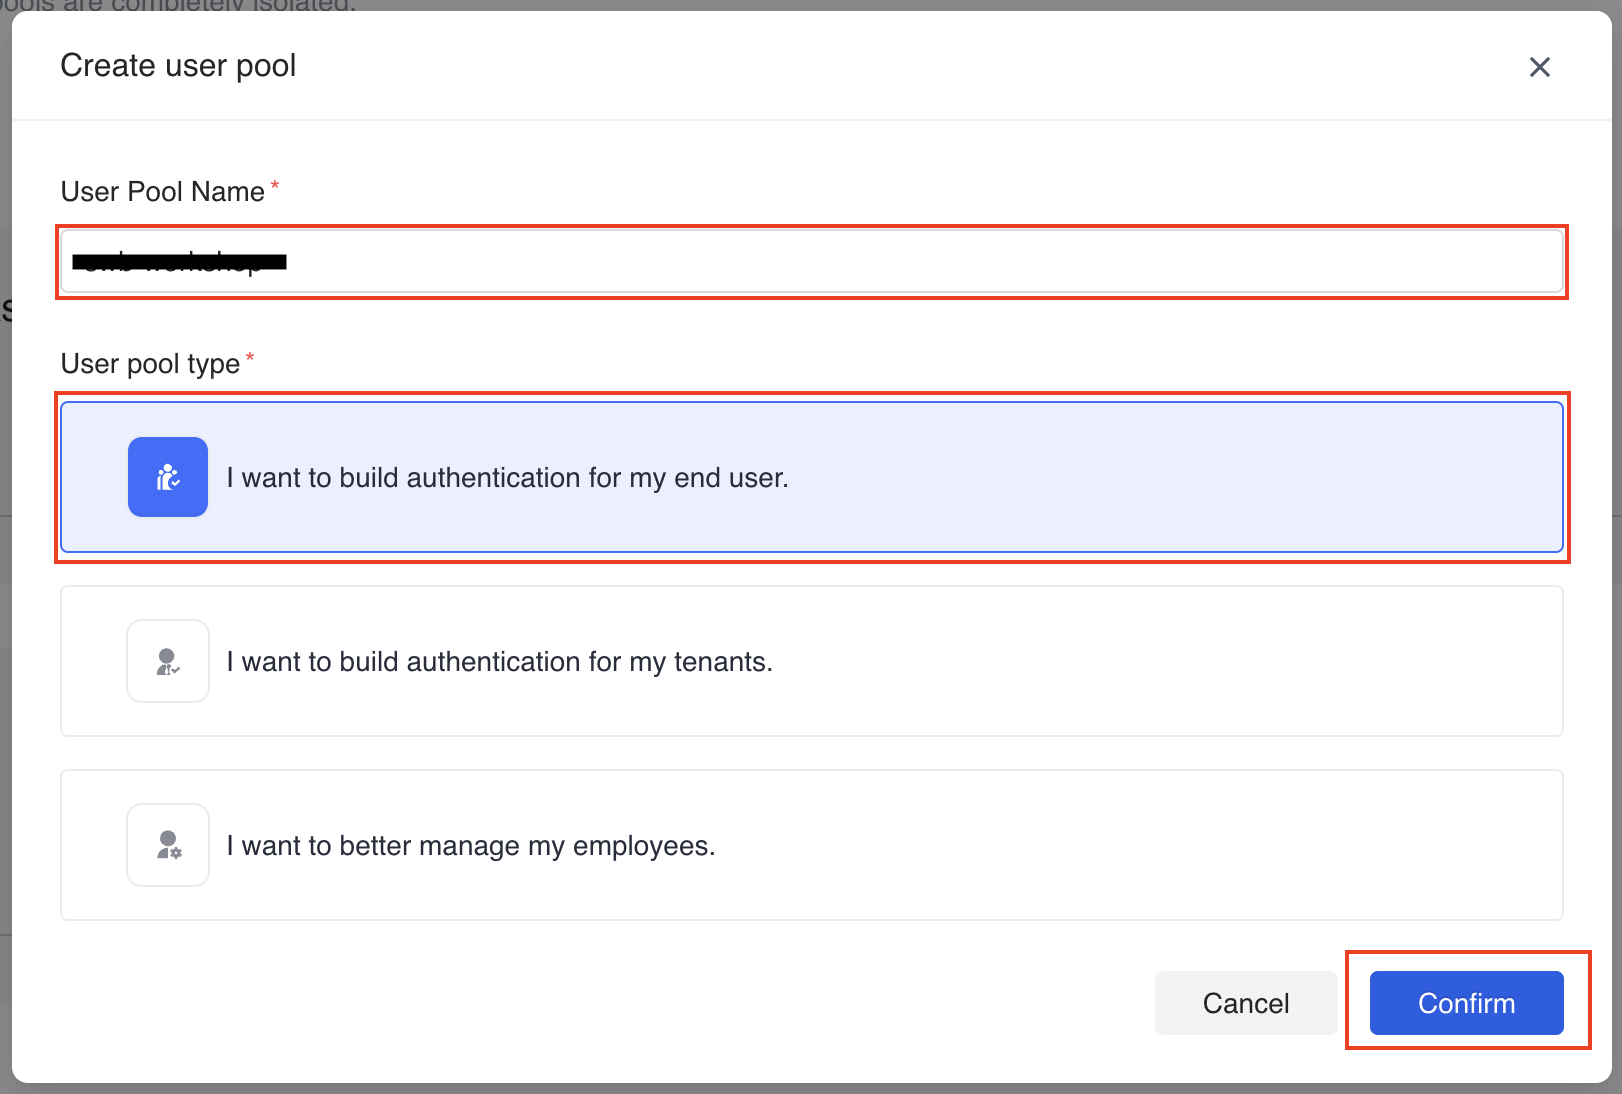
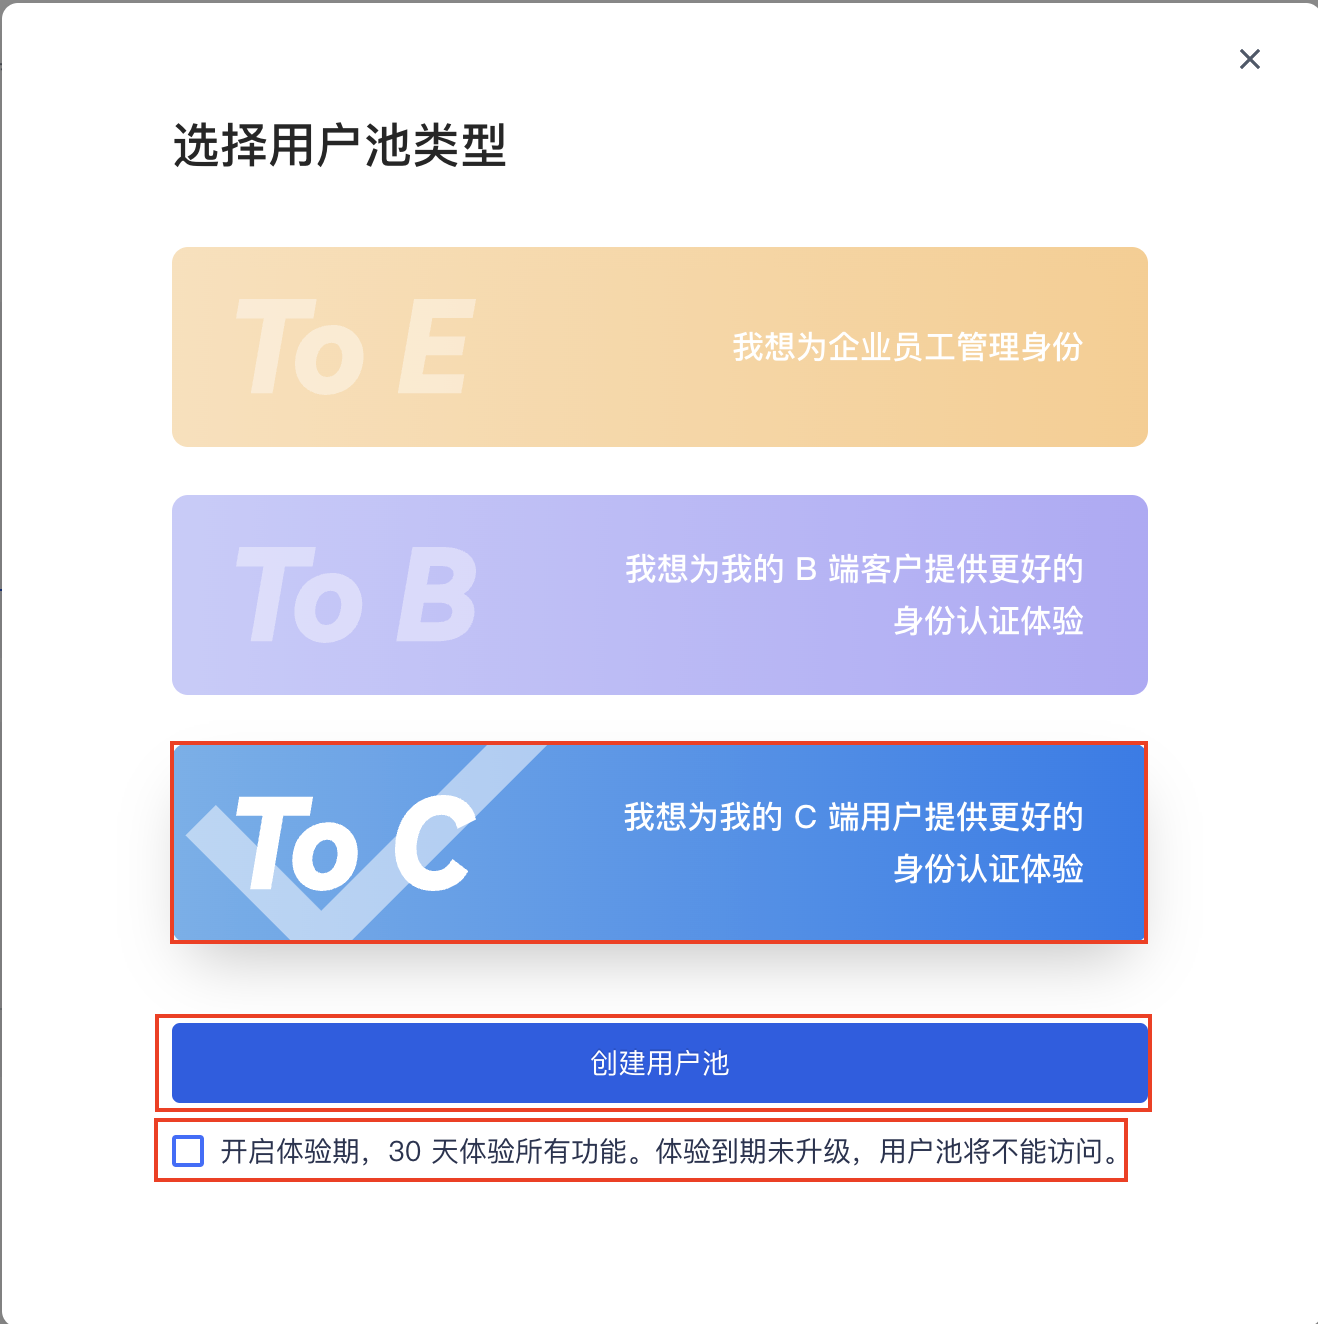
refactor doc for authing change (#149)

diff --git a/docs/docs/zh/installation_guide/installation/pre-installation/oidc-providers.md b/docs/docs/zh/installation_guide/installation/pre-installation/oidc-providers.md
@@ -26,7 +26,7 @@ OpenID Connect (OIDC) IdP 是 [Cognito User Pool][cognito] 的替代方案，用
 
 ####  创建 Authing.cn OIDC 客户端
 1. 登录[认证控制台](https://console.authing.cn/console)。
-2. 如果您没有用户池，请创建一个用户池。输入**User Pool Name**，选择**User pool type**，单击 **Confirm** 创建用户池。
+2. 如果您没有用户池，请创建一个用户池。请选择 **To C** 类型，如果想使用长期免费的用户池，请**不要勾选** “开启体验期，30 天体验所有功能。体验到期未升级，用户池将不能访问。”选项。单击 **创建用户池** 按钮创建用户池。
     [![](../../../images/OIDC/create-authing-userpool.png)](../../../images/OIDC/create-authing-userpool.png)
 3. 选择用户池。
 4. 在左侧导航栏，选择**Applications**下的**Self-built App**。

diff --git a/docs/docs/installation_guide/installation/pre-installation/oidc-providers.md b/docs/docs/installation_guide/installation/pre-installation/oidc-providers.md
@@ -25,7 +25,8 @@ Follow the steps below to create an OIDC client and , and obtain the `client_id`
 #### Creating Authing.cn OIDC client
 
 1. Go to the [Authing console](https://console.authing.cn/console).
-2. Create a user pool if you don't have one.
+2. Create a user pool if you don't have one. Note: **if you need a long-term free user pool, please do not check the 30-day trial checkbox**
+    [![](../../../images/OIDC/create-authing-userpool-en.png)](../../../images/OIDC/create-authing-userpool-en.png)
 3. Select the user pool.
 4. On the left navigation bar, select **Self-built App** under **Applications**. 
 5. Click the **Create** button.
